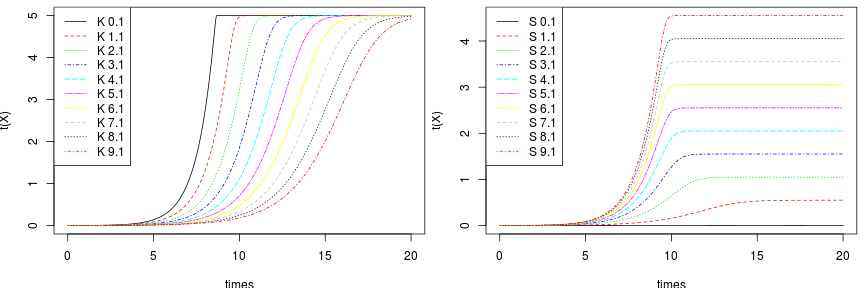
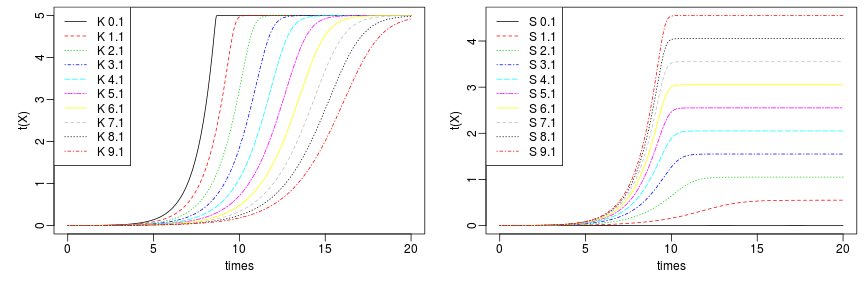
publishing deck

diff --git a/index.html b/index.html
@@ -3691,7 +3691,7 @@ plot(out)
     <h3>Vary Parameters &amp; Initial Conditions</h3>
   </hgroup>
   <article data-timings="">
-    <pre><code class="r">par(mfcol=c(1,2),mai=c(.75,.75,.1,.1))
+    <pre><code class="r">par(mfcol=c(1,2),mai=c(.75,.75,.1,.1),mgp=c(1.7,.5,0))
 outs &lt;- ode.scan(&quot;K&quot;,seq(0.1,10,1))
 X &lt;- matrix(unlist(lapply(outs, function(x) x[,&quot;X&quot;])), ncol = length(times), byrow = TRUE)
 matplot(times,t(X),type=&quot;l&quot;,col=1:length(Ks),lty=1:length(Ks))

diff --git a/index.md b/index.md
@@ -3907,7 +3907,7 @@ ode.scan <- function(id, val) {
 ### Vary Parameters & Initial Conditions
 
 ```r
-par(mfcol=c(1,2),mai=c(.75,.75,.1,.1))
+par(mfcol=c(1,2),mai=c(.75,.75,.1,.1),mgp=c(1.7,.5,0))
 outs <- ode.scan("K",seq(0.1,10,1))
 X <- matrix(unlist(lapply(outs, function(x) x[,"X"])), ncol = length(times), byrow = TRUE)
 matplot(times,t(X),type="l",col=1:length(Ks),lty=1:length(Ks))
